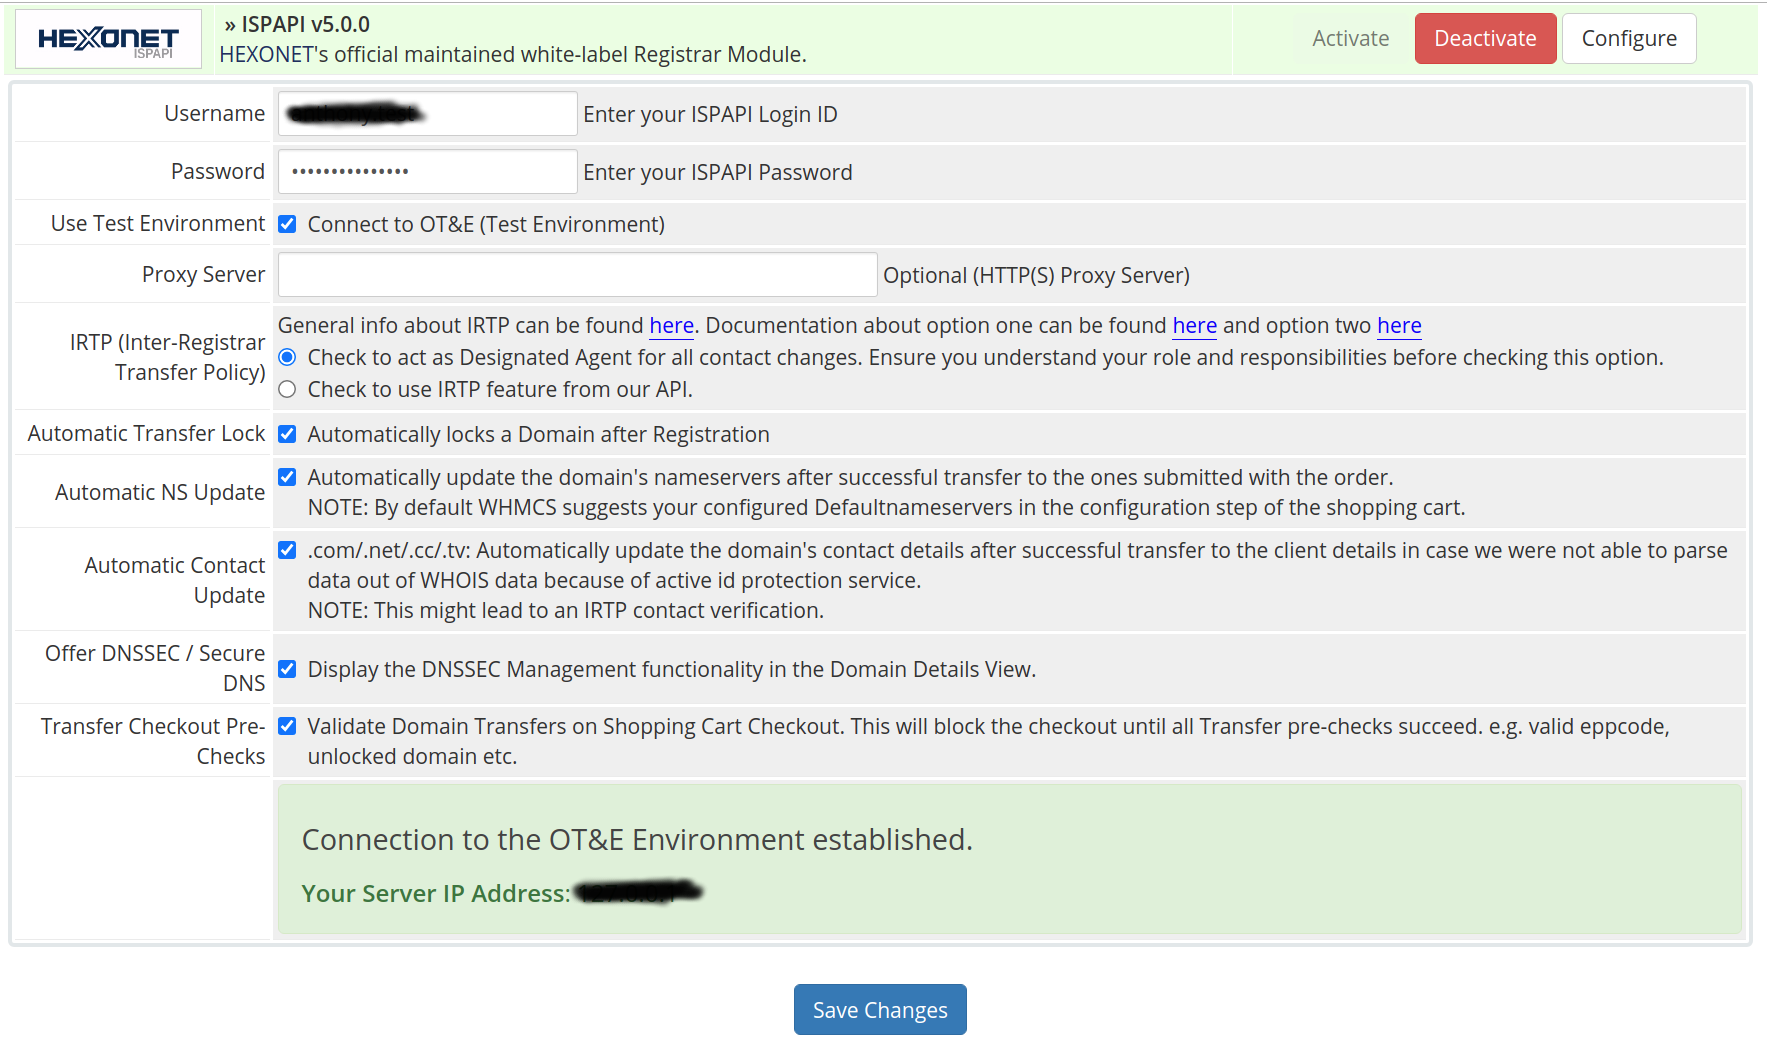
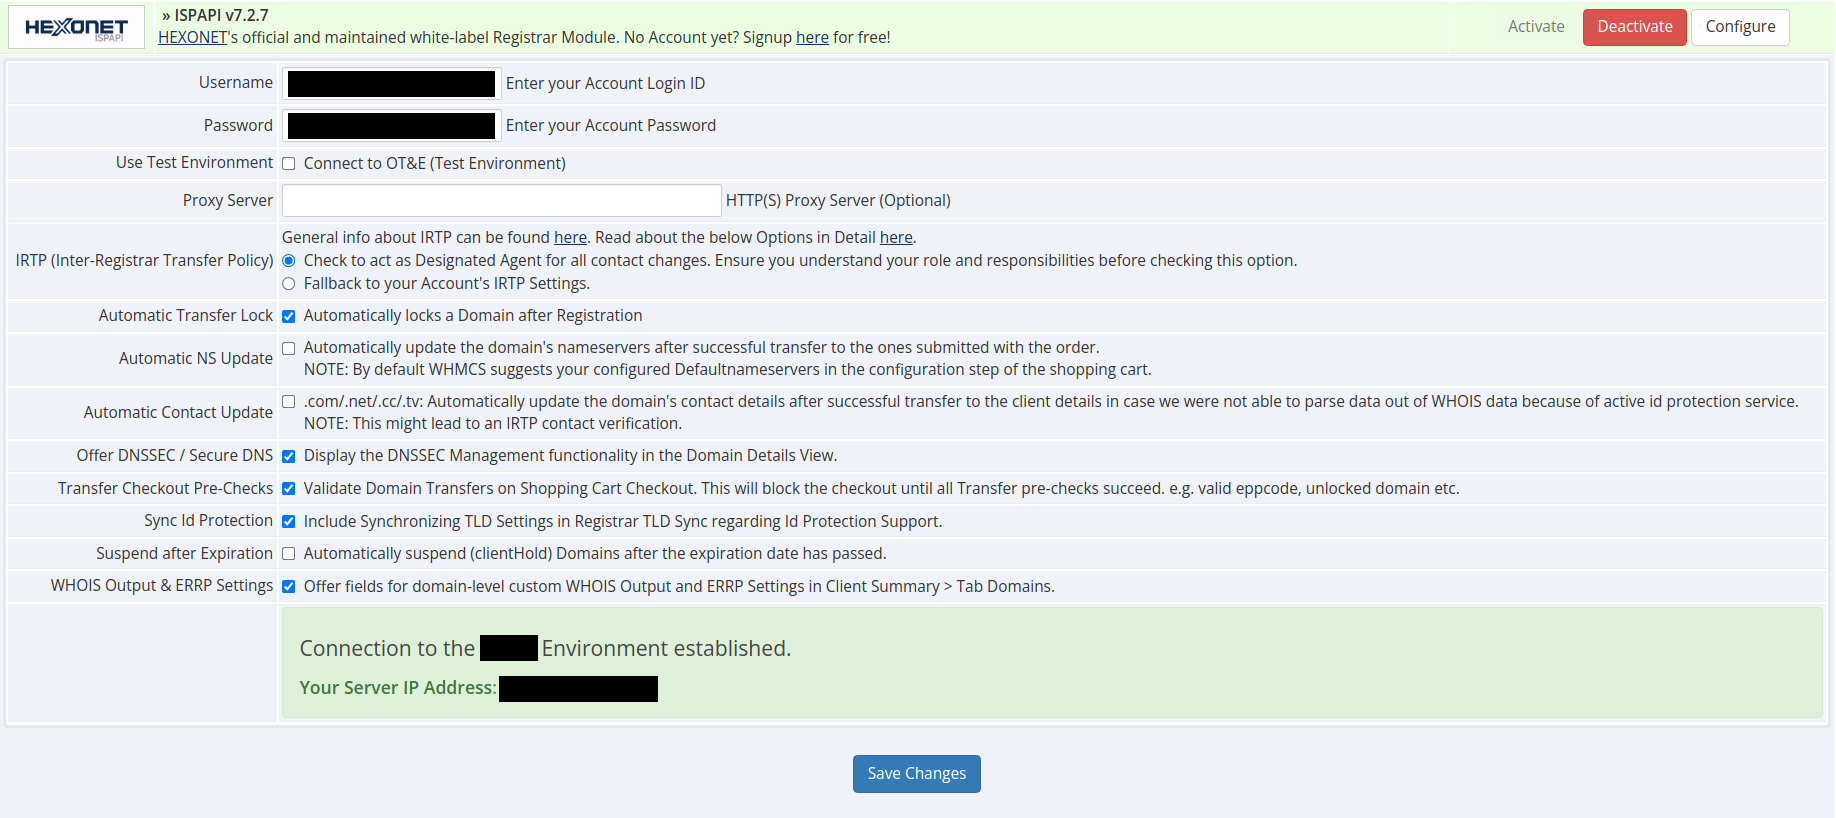
docs(hexonet): updated whmcs registrar module docs (features, configuration settings)

Changed region(s): [[0.0, 0.0, 1.0, 0.8863], [0.4358, 0.9169, 0.5603, 0.978]]

diff --git a/_sass/content.scss b/_sass/content.scss
@@ -8,16 +8,6 @@
 .main-content {
   line-height: $content-line-height;
 
-  ol,
-  ul,
-  dl,
-  pre,
-  address,
-  blockquote,
-  .table-wrapper {
-    margin-top: 0.5em;
-  }
-
   a {
     overflow: hidden;
     text-overflow: ellipsis;

diff --git a/docs/hexonet/whmcs/whmcs-ispapi-registrar.md b/docs/hexonet/whmcs/whmcs-ispapi-registrar.md
@@ -24,49 +24,53 @@ Back to topic, here the steps describing how to start with us using WHMCS.
 
 ## Supported Features
 
-- [Registrar TLD Sync / Pricing Import](#importing-prices) (WHMCS 7.10)
+- [Registrar TLD Sync / Pricing Import](#importing-prices) (WHMCS 7.10 ++)
+  - [include ID Protection Setting](#module-configuration)
+  - include EPP Code Setting
+  - ... and Domain Restore related Data
+- [Transliteration](#transliteration) Support
 - [Domain & Transfer Synchronization](#automation-settings)
-- Transfer-Out Automation
+  - Configurable: [Auto-Suspension after Expiration](#module-configuration)
 - [Internationlized Domain Names](#idn-support) (IDNs)
-- [Additional Domain Fields](#additional-domain-fields)
+- Better [Additional Domain Fields](#additional-domain-fields)
+  - [Fully Translated](#installing-our-module) (AR, DE, EN, FR)
+  - [Customizable Translations](#installing-our-module)
+  - Automatic [Pre-Fill](#auto-prefill-fields) and Completion
+  - Built-in, No Configurations required!
 - [Premium Domains](#premium-domains)
 - Domain Registration (feat. [.SWISS](#swiss-registrations)!)
+- Domain Transfer, plus
+  - Cancel Transfer
+  - Resend Transfer Confirmation Email
+  - Status Details accessible
+  - [Post-Transfer NS Update](#module-configuration)
+  - [Post-Transfer Contact Update](#module-configuration)
 - Domain Renewal
-- Domain Transfer
+- [Domain Restore](#domain-restore)
+- Domain Release / Explicit Deletions
+- Domain Suspension / Unsuspension
 - Domain Management
   - [Automatic Registrar Lock](#module-configuration)
-  - WHOIS Update (UTF-8 capable)
-  - Nameserver Registration & Management
+  - Contact Data / WHOIS Update (UTF-8 capable)
+  - [Change of Registrant / Trade](#change-of-registrant)
+  - [IRTP / Domain Contact Verification](#domain-contact-verification)
+  - [Whois Output Settings](#whois-output-settings)
+  - [ERRP Settings](#errp-settings)
+  - Private Nameserver Registration & Management
   - Get EPP Code
-- Domain Release / Explicit Deletions
-- [Domain Restore](#domain-restore)
+  - [TLD-specific free Whois Privacy for Individuals](#tld-specific-whois-privacy) (.ca, .se, .nz)
 - [DNS Management](#ns--dns-management)
   - Record-Types: A, AAAA, MX, MXE, CNAME, TXT, [SRV](#srv-records)
-  - Allows user defined TTL values and MX priorities
-- [Email Forwarding](#ns--dns-management)
-- [URL Forwarding](#ns--dns-management)
-  - Redirect using HTTP
-  - Forward using HTML Frame
-- [WHOIS Privacy / ID Protection](#whois-privacy-management)
-
-<details>
-  <summary><strong>... AND MORE!</strong>
-</summary>
-
-<ul>
-  <li><a href="#module-configuration">Testing / Sandbox Environment</a></li>
-  <li><a href="#hexonet-module-migration">1-Click Migration from HEXONET Registrar Module</a></li>
-  <li><a href="#web-apps-support">Web Apps</a></li>
-  <li><a href="#auto-prefill-fields">Auto-prefill of Additional Domain Fields</a></li>
-  <li>Automatic Contact Data and <a href="#module-configuration">NS Update after Transfer</a></li>
-  <li><a href="#dnssec-management">DNSSEC / SecDNS Management</a></li>
-  <li><a href="#module-configuration">Proxy Server Configuration for API Communication</a></li>
-  <li>Special: <a href="#ca-whois-privacy">WHOIS Privacy management of .CA domain names</a></li>
-  <li>Special: <a href="#change-of-registrant">Change of Registrant / Trade</a></li>
-  <li>Support for all bulk update operations</li>
-</ul>
-
-</details>
+  - [DNSSEC / SecDNS Management](#dnssec-management)
+- Domain Addons
+  - [Email Forwarding](#ns--dns-management)
+  - [URL Forwarding](#ns--dns-management)
+  - [WHOIS Privacy / ID Protection](#whois-privacy-management)
+- [Translation Support](#installing-our-module)
+- [Sandbox Environment Support](#module-configuration)
+- [Web Apps](#web-apps-support) (G Suite, ...)
+- [Proxy Server Support](#module-configuration)
+- [1-Click Migration](#hexonet-module-migration) from WHMCS' built-in HEXONET Module
 
 ## Requirements
 
@@ -126,7 +130,7 @@ The `HEXONET` Module that is shipped with WHMCS is maintained by the WHMCS Core 
 - Download the ZIP archive and extract it to your HDD
 - Copy the folder `modules` into the root directory of your WHMCS instance
 - If you want to use our Transliteration, please copy the folder `includes` into the root directory of your WHMCS instance. Our Transliteration just cares about replacing Greek characters with Greeklish ones in contact data and replacing HTML Entities with their related character pendant.
-- Care about creating language override files for our translation files or just include them in existing files.
+- Care about creating language override files for our translation files or just include them in existing files - read below.
 
 So, check `/lang/overrides` if these files exist there: arabic.php, english.php, french.php, german.php.
 
@@ -165,6 +169,7 @@ include(implode(DIRECTORY_SEPARATOR, [ ROOTDIR, "modules", "registrars", "ispapi
 ```
 
 If these files already exist, please just copy'n'paste the above related include statements at the end of them.
+If you want to translate into a language that is not yet built-in in our module, we suggest to copy the `/modules/registrars/ispapi/lang/overrides/english.php` to `/lang/overrides/<language>.php` of your WHMCS System, where `<language>` corresponds to the language identifier e.g. `danish` or `dutch` etc. Then translate the contents of that file into the desired language. Just in case a translation is missing, we'll be falling back to english.
 
 For cPanel users: Use [this video](//www.youtube.com/watch?v=SNtldWg_0gY) on how to upload and extract a ZIP archive using your cPanel. Use [this video](//www.youtube.com/watch?v=T7OYIOwyWvU) on how to find the `public_html` folder in your cPanel. In there you'll find a subfolder `gwcorp` or `whmcs` containing again a subfolder `modules` and then the subfolder `registrars`. Please copy the above mentioned folder of our zip archive into that folder.
 
@@ -206,7 +211,13 @@ Find the `HEXONET/ispapi` Module in the list and activate it. If you're not able
 [![configuration]({{ 'assets/images/whmcs/ispapi-registrar/config.png' | relative_url }})]({{ 'assets/images/whmcs/ispapi-registrar/config.png' | relative_url }})
 
 Now, configure this Module by entering your credentials (OT&E or LIVE System Account).
-Activate `TestMode` by activating the checkbox in case you want to use the OT&E System - just ensure you don't mix it up with LIVE System Credentials or vice versa.
+Activate `Use Test Environment` by activating the checkbox in case you want to use the OT&E System - just ensure you don't mix it up with LIVE System Credentials or vice versa.
+
+> NOTE: We highly recommend to have two Sytems set up - An Integration Test / Demo System connected to our OT&E System and your Production System connected to our Live System. Switching this in one System may lead to bad experiences later on e.g. Registrar TLD Sync related, Domain Portfolio Mixup etc. You can request a free Developer License at whmcs.com that you can use for an internal hosted WHMCS Installation.
+
+You may configure a `Proxy Server` to use for connecting. This configuration setting is optional.
+
+At `IRTP (Inter-Registrar Transfer Policy)` setting, we suggest using `Option 1` to activate the default WHMCS way of the IRTP integration. Find further details documented below.
 
 Activate `Automatic Transfer Lock` setting by using the appropriate checkbox to ensure outgoing transfers can't be initiated in ease. We suggest that setting as it helps securing your domain names from getting transferred out in ease.
 
@@ -214,13 +225,7 @@ Activate `Automatic NS Update` setting in case you want our module to update dom
 
 Activate `Automatic Contact Update` setting in case you want our module to update your .com/.net/.cc/.tv domain's contact details automatically after successful transfer. The mechanism will care about updating the related registrant contact details to the data of the client who initiated the transfer. It also cares about updating admin/tech/billing contact details as configured in WHMCS. This mechanism will only be updating domain names where we were not able to parse Contact Details out of WHOIS Data after successful transfer because of active WHOIS Privacy / id protection service (Hint: "Redacted for Privacy").
 
-At `IRTP (Inter-Registrar Transfer Policy)` setting, we suggest using `Option 1` to activate the default WHMCS way of the IRTP integration. Find further details documented below.
-
-If you want to offer secure DNS / DNSSEC / Secure DNS, feel also free to activate the checkbox `Offer DNSSEC / Secure DNS`. Find further details documented [here](#ns--dns-management).
-
-If you want to offer our Web Apps to your customers, activate the `Offer Web Apps` checkbox. Find further details documented below.
-
-Now, press Save and voilà. If you're getting a green message - you're connected. Otherwise, you have to investigate further as described [here]({{ 'docs/hexonet/faqs/whmcs-ispapi-registrar/#49-login-failed-in-registrar-module' | relative_url }}).
+If you want to offer secure DNS / `DNSSEC / Secure DNS`, feel also free to activate the checkbox `Offer DNSSEC / Secure DNS`. Find further details documented [here](#ns--dns-management).
 
 Activate `Transfer Checkout Pre-Checks` setting in case you want to have Domain Transfer Orders pre-checked. We validate if initiating the Transfer would succeed - so, if:
 
@@ -231,6 +236,14 @@ Activate `Transfer Checkout Pre-Checks` setting in case you want to have Domain 
 If something fails, it would look like shown below:
 
 ![Transfer Checkout Pre-Checks]({{ 'assets/images/whmcs/ispapi-registrar/transferprecheck.png' | relative_url }})
+
+Activate `Sync Id Protection` to include synchronizing this Domain Add-Ons checkboxes within the Registrar TLD Sync. We just Sync it for TLDs configured with us as Registrar in Auto Registration (see Domain Pricing Overview).
+
+Activate `Suspend after Expiration` if you want to suspend domain name automatically after expiration. This option is useful if you're faced with clients who are used to pay their domain renewals very late and you want to pressure a bit. Worst case such clients would lose domains when accidentally forgetting about the renewal. You can unsuspend domains over Client Profile > Tab Domains using the Button `Unsuspend`.
+
+If you want to offer our Web Apps to your customers, activate the `Offer Web Apps` checkbox. Find further details documented below.
+
+Now, press Save and voilà. If you're getting a green message - you're connected. Otherwise, you have to investigate further as described [here]({{ 'docs/hexonet/faqs/whmcs-ispapi-registrar/#49-login-failed-in-registrar-module' | relative_url }}).
 
 ### Domain Contact Verification
 
@@ -251,8 +264,10 @@ This is the default and suggested setting.
 By checking this option you will be automatically acting as Designated Agent(DA) for the new and old registrant.
 Our registrar module confirms the DA status by sending the following additional domain fields automatically with the TradeDomain command:
 
-            "X-CONFIRM-DA-OLD-REGISTRANT" => 1,
-            "X-CONFIRM-DA-NEW-REGISTRANT" => 1
+```text
+"X-CONFIRM-DA-OLD-REGISTRANT" => 1,
+"X-CONFIRM-DA-NEW-REGISTRANT" => 1
+```
 
 Read more [here](//docs.whmcs.com/Domain_Contact_Verification) about IRTP handling via WHMCS.
 
@@ -395,6 +410,23 @@ In the domain details, a new “DNSSEC Management” section will be displayed.
 This feature allows your customers to add DS and KEY records and set the maxSigLife.
 
 ![dnssec]({{ 'assets/images/whmcs/ispapi-registrar/dnssec_management_support.png' | relative_url }})
+
+## Domain Transfer
+
+### Transfer Pre-Checks
+
+Activate our Registrar Module's Configuration Setting [Transfer Checkout Pre-Checks](#module-configuration), if validating Transfer Orders on Shopping Cart Checkout is something you consider as useful. We'll be prechecking then basic blockers like wrong Auth/EPP Code or the Domain being still locked.
+
+### Pending Transfer
+
+For Pending Transfers, we offer special buttons like "Cancel Domain Transfer" and "Resend Transfer Approval Mail".
+In addition we provide the full Transfer Log for your Reference.
+
+![Pending Transfer]({{ 'assets/images/whmcs/ispapi-registrar/pending-transfer.png' | relative_url }})
+
+### Post-Transfer Updates
+
+Activate our Registrar Module's Configuration Settings [Automatic NS Update](#module-configuration) [Automatic Contact Update](#module-configuration), if these Features are of interest. Find them well explained in the Module Configuration Section.
 
 ## Domain Restore
 
@@ -548,11 +580,12 @@ The new WHOIS Privacy page looks as follows (protection is enabled in the exampl
 
 ![whois_privacy_page]({{ 'assets/images/whmcs/ispapi-registrar/whois_privacy_page.png' | relative_url }})
 
-### .CA WHOIS Privacy
+### TLD-specific WHOIS Privacy
 
-(Deprecated)
+TLDs like .ca, .se, .nz offer a free Whois Privacy Service for Individuals provided by the Registry Provider.
+This Service is by default active and therefore protects Whois Data, but it can also be disclosed.
 
-The new Registrant related WHOIS Privacy for .CA domain names looks as follows (protection is enabled in the example):
+This is accessible in WHMCS' Client-Area over Menu Entry "WHOIS Privacy".
 
 ![ca_whois_privacy]({{ 'assets/images/whmcs/ispapi-registrar/ca_registrant_whois_privacy.png' | relative_url }})
 
@@ -560,15 +593,15 @@ The new Registrant related WHOIS Privacy for .CA domain names looks as follows (
 
 ### Translations
 
-With v6 of our Registrar Module, we have introduced a Translation Mechanism that is allowing us to translate our Module's Texts in Client Area.
+Since Version 6 of our Registrar Module, we have introduced a Translation Mechanism that is allowing us to translate our Module's Texts in Client Area.
 
 Find our translation files in the `lang` folder of our ZIP Archive. As long as you don't have language override files already in use in your system, just copy that folder into your WHMCS System's root directory. Otherwise, please merge our translations into the existing ones. Please cover this step after each module upgrade.
 
 ### Transliteration
 
-Since Version 6 of our Registrar Module we started considering WHMCS' transliterated data for contact data in Registrations, Transfers and Contact Information Updates.
+Since Version 6 of our Registrar Module, we started considering WHMCS' transliterated data for contact data in Registrations, Transfers and Contact Information Updates.
 
-We ignored this in the past as WHMCS in Version < v7 had a lot trouble regarding Transliterations. Our Module offers a ready-to-use transliteration approach that replaces HTML Entities with their UTF-8 Pendants and maps Greek Characters to so-called Greeklish ones. Copy folder `includes` from our ZIP Archive to your WHMCS System's root directory. Please cover this step after each module upgrade.
+We ignored this in the past as WHMCS in Version < 7 had a lot trouble regarding Transliterations. Our Module offers a ready-to-use transliteration approach that replaces HTML Entities with their UTF-8 Pendants and maps Greek Characters to so-called Greeklish ones. Copy folder `includes` from our ZIP Archive to your WHMCS System's root directory. Please cover this step after each module upgrade.
 
 Read [here](https://docs.whmcs.com/Custom_Transliteration) for further Details.
 
@@ -585,6 +618,7 @@ If there are costs for this process, we will output them in the WHMCS Activity L
 WHMCS is not invoicing this as it is completely incompatible with Domain Trades.
 
 We are looking for a solution to get this improved, but probably impossible as long WHMCS Core isn't support this natively.
+At least our Module is logging Trade Costs into the Activity Log and allows some very basic Controlling.
 
 ### .SWISS Registrations
 
